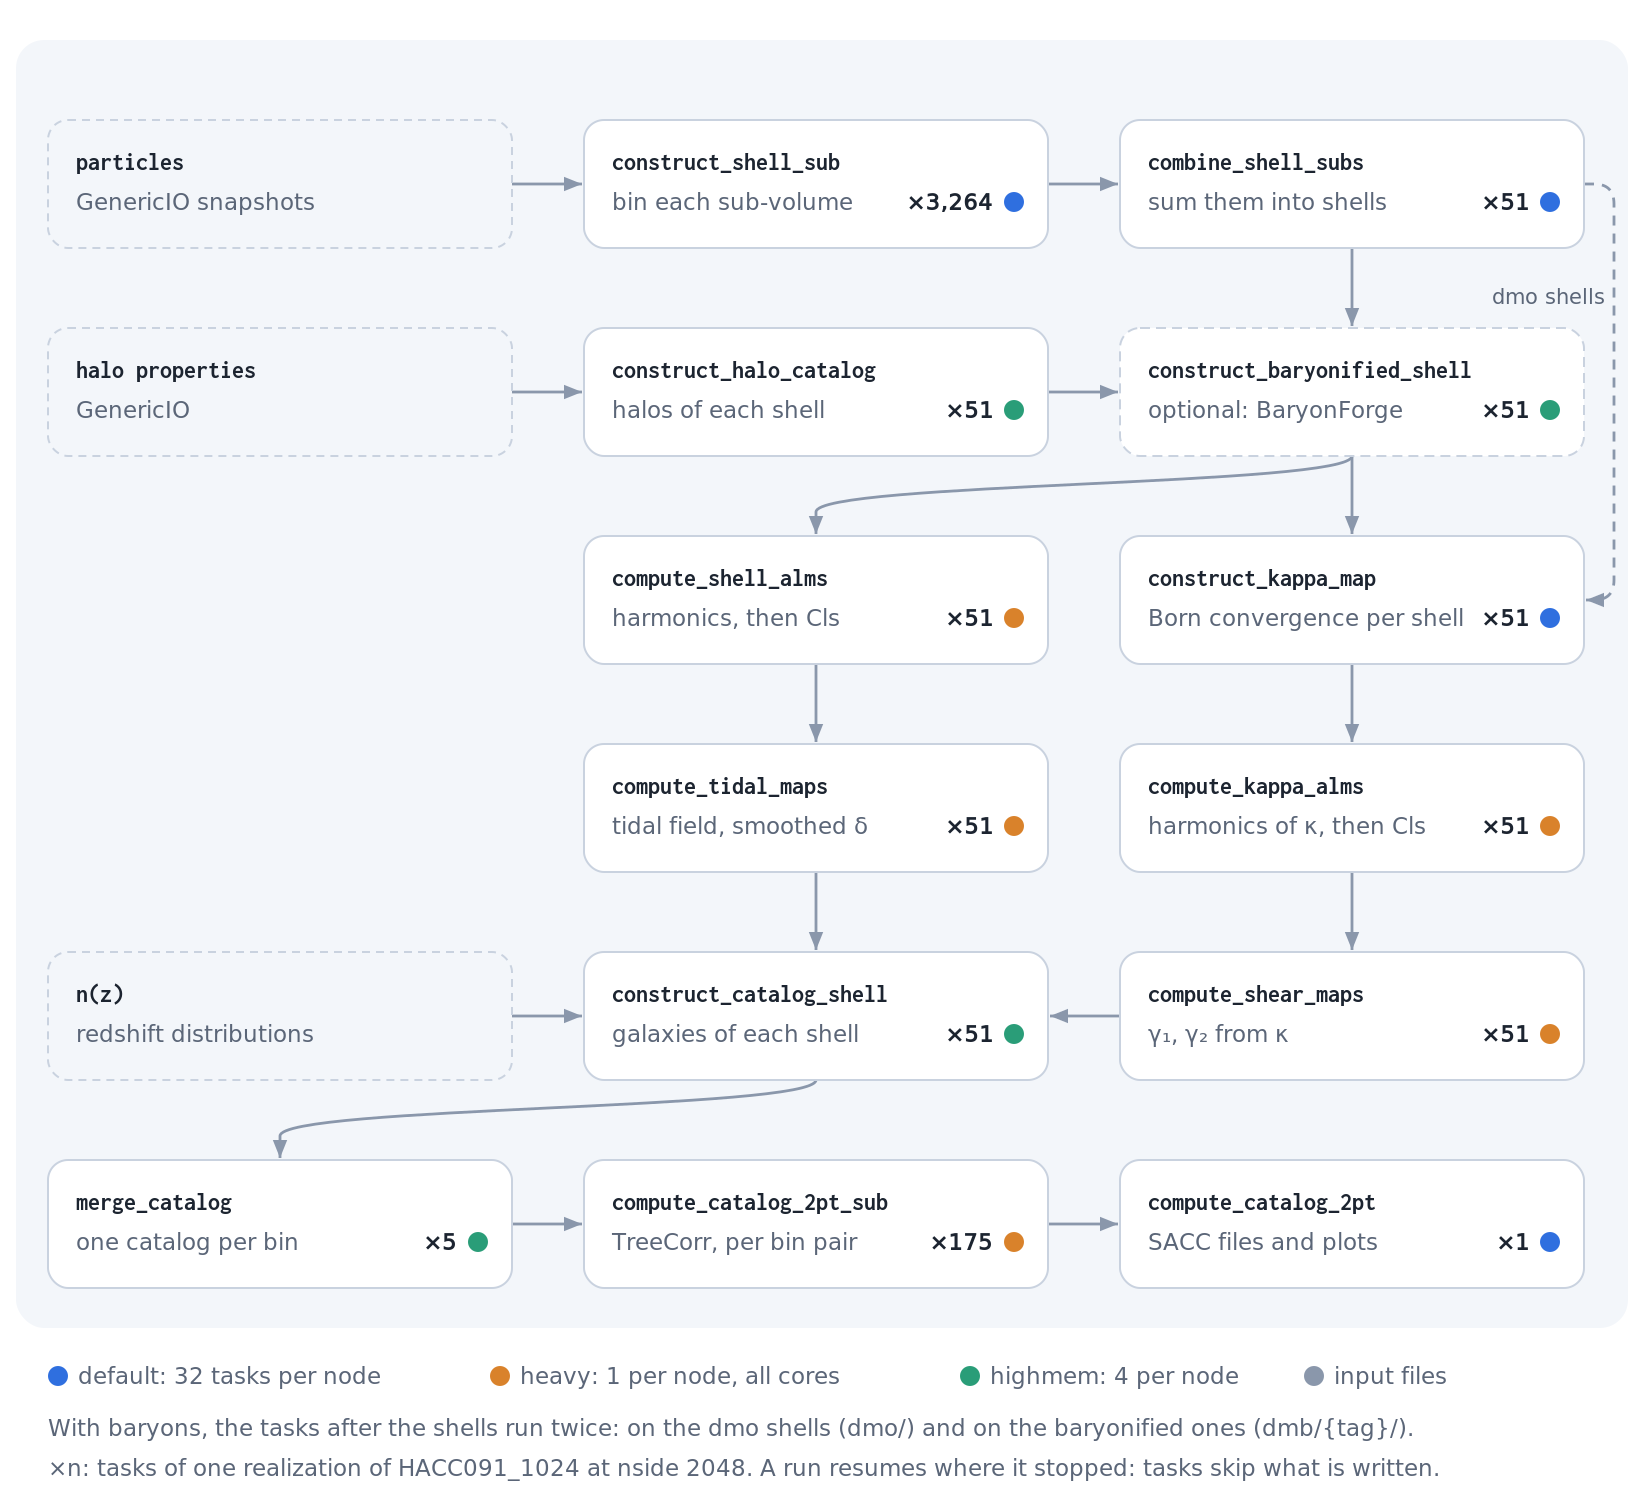
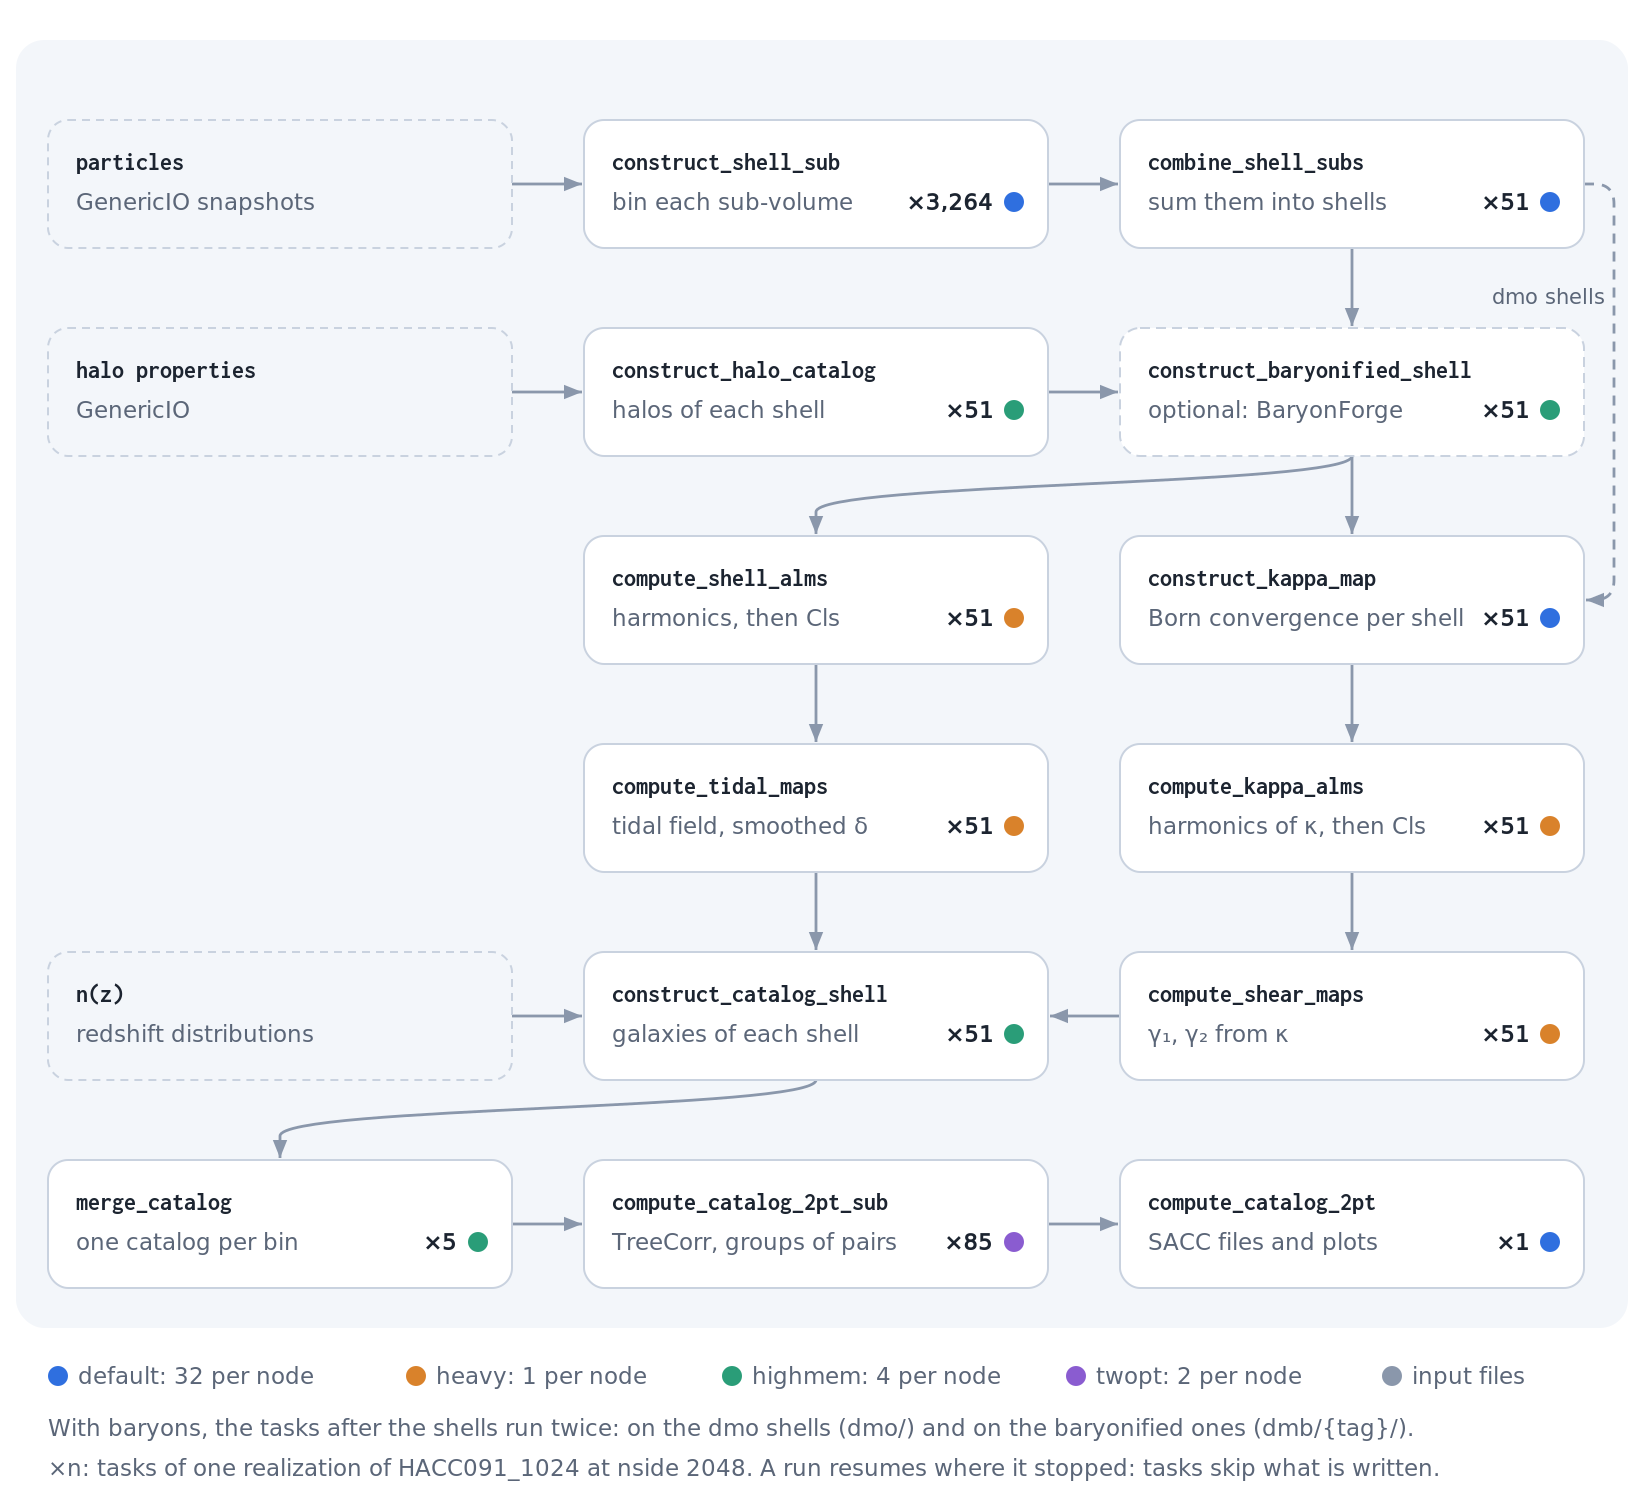
Non-Limber option for the spectra of density tracers; workflow figure with the twopt executor
Theory.angular_cl, binned_cl and predict_cls (and the map statistics' predict_cls) take
non_limber=False: for two unsmoothed density tracers, e.g. matter shells, it adds the exact
minus Limber spectrum, with the power spectrum at the kernels' effective redshift, computed
up to ell = 1000 in threads and falling as 1/ell^2 beyond. For the shells of a lightcone,
Limber overestimates the spectra by 10-25% at ell ~ 30-100 and a few percent at ell ~ 200.
Off by default: about a minute per pair.

The workflow figure shows the catalog 2pt tasks as groups of pairs on the twopt executor.

diff --git a/pollux/cosmo.py b/pollux/cosmo.py
@@ -406,9 +406,13 @@ class Theory:
     # smoothing scales (Mpc) considered by lognormal_smoothing: round values, for file names
     SMOOTHING_SCALES = (0.1, 0.12, 0.15, 0.2, 0.25, 0.3, 0.4, 0.5, 0.6, 0.8, 1., 1.2, 1.5, 2., 2.5, 3., 4., 5., 6., 8., 10., 12., 15., 20., 25., 30., 40., 50.)
 
+    # non-Limber correction (see :meth:`_non_limber_correction`): computed up to this multipole, falling as 1 / ell^2 beyond
+    NON_LIMBER_LMAX = 1000
+
     def __init__(self, cosmo: pyccl.Cosmology, p_of_k_a: pyccl.Pk2D | None = None) -> None:
         self.cosmo = cosmo
         self.p_of_k_a = p_of_k_a
+        self._non_limber = {}  # non-Limber corrections of pairs of density tracers, keyed by their names
         self._smoothed_pk = {}  # power spectra with a Gaussian smoothing, keyed by the spectrum and the tracers' smoothing
         self._pt_calculator = None
         self._pt_correction_pk = {}  # corrections of perturbation theory to NLA, keyed by the tracers' amplitudes
@@ -416,7 +420,7 @@ class Theory:
     # ==================================================================================================================
     # region Power spectra
 
-    def angular_cl(self, t1: Tracer | TracerSum, t2: Tracer | TracerSum, ell: np.ndarray, *, bb: bool = False) -> np.ndarray:
+    def angular_cl(self, t1: Tracer | TracerSum, t2: Tracer | TracerSum, ell: np.ndarray, *, bb: bool = False, non_limber: bool = False) -> np.ndarray:
         """Return the angular power spectrum of two tracers.
 
         Parameters
@@ -428,6 +432,10 @@ class Theory:
         bb : bool, optional
             Return the B-mode spectrum instead: only intrinsic alignments beyond NLA (two ``'ia'``
             tracers, one with ``a2`` or ``a1delta``) have B modes, zero otherwise. Default is False.
+        non_limber : bool, optional
+            Add the non-Limber correction of two unsmoothed ``'density'`` tracers
+            (:meth:`_non_limber_correction`), significant for thin shells below ell ~ 1000 but slow
+            (minutes per pair). Other pairs stay in the Limber approximation. Default is False.
 
         Returns
         -------
@@ -447,7 +455,7 @@ class Theory:
         if isinstance(t1, TracerSum) or isinstance(t2, TracerSum):
             terms1 = t1.tracers if isinstance(t1, TracerSum) else (t1,)
             terms2 = t2.tracers if isinstance(t2, TracerSum) else (t2,)
-            return sum(self.angular_cl(a, b, ell, bb=bb) for a in terms1 for b in terms2)
+            return sum(self.angular_cl(a, b, ell, bb=bb, non_limber=non_limber) for a in terms1 for b in terms2)
 
         # smoothing of the tracers, independent of their order (key of the smoothed spectra)
         smoothing = tuple(sorted(((t.smooth_Mpc, t.smooth_nside or 0) for t in (t1, t2) if t.smooth_Mpc), key=repr))
@@ -470,6 +478,8 @@ class Theory:
             pk = self._pk_pt_correction(t1, t2, smoothing)
             kernel2 = t2._ccl_pt_kernel(self.cosmo) if t2.kind == 'ia' else t2.ccl(self.cosmo)
             cl = cl + self._limber(t1._ccl_pt_kernel(self.cosmo), kernel2, ell, pk)
+        if non_limber and t1.kind == t2.kind == 'density' and not smoothing:
+            cl = cl + self._non_limber_correction(t1, t2, ell)
         return cl
 
     def _pk_pt_correction(self, t1: Tracer, t2: Tracer, smoothing: tuple, *, bb: bool = False) -> pyccl.Pk2D:
@@ -592,12 +602,130 @@ class Theory:
             # e.g. kernels or spectra too sharp for the default (QAG) integration
             return pyccl.angular_cl(self.cosmo, kernel1, kernel2, ell, p_of_k_a=pk, limber_integration_method='spline')
 
+    def _non_limber_correction(self, t1: Tracer, t2: Tracer, ell: np.ndarray) -> np.ndarray:
+        r"""Return the non-Limber correction of the angular power spectrum of two ``'density'`` tracers (cached by their names).
+
+        The difference between the exact spectrum and its Limber approximation, both with the matter power
+        spectrum of the predictions at one effective redshift (the mean of the kernels), which suits narrow kernels
+        (e.g. shells of matter):
+
+        .. math::
+
+            \Delta C_\ell = \frac{2}{\pi} \int dk\, k^2 P(k) I_1(k) I_2(k)
+            - \int d\chi \frac{W_1 W_2}{\chi^2} P\left(\frac{\ell + 1/2}{\chi}\right),
+            \qquad I_i(k) = \int d\chi\, W_i(\chi)\, j_\ell(k \chi),
+
+        with the radial kernels :math:`W_i` of the CCL tracers. It is computed at about 70 multipoles up to
+        :attr:`NON_LIMBER_LMAX`, in parallel threads, and interpolated; beyond, the relative correction falls as
+        :math:`1 / \ell^2`. Zero below ell = 2.
+
+        Parameters
+        ----------
+        t1, t2 : Tracer
+            ``'density'`` tracers.
+        ell : array_like
+            Multipoles.
+
+        Returns
+        -------
+        ndarray
+            Correction, to add to the Limber C_ell of :meth:`angular_cl`.
+        """
+        key = tuple(sorted((t1.name, t2.name)))
+        if key not in self._non_limber:
+            self._non_limber[key] = self._non_limber_table(t1, t2)
+        ells, delta, limber_lmax = self._non_limber[key]
+        ell = np.asarray(ell, dtype=float)
+        out = np.interp(ell, ells, delta, left=0., right=0.)
+        hi = ell > ells[-1]
+        if np.any(hi):
+            # relative correction falling as 1 / ell^2, on the Limber spectrum at the effective redshift (computed at
+            # 50 multipoles and interpolated in log)
+            grid = np.geomspace(ells[-1], ell[hi].max(), 50)
+            shape = np.exp(np.interp(np.log(ell[hi]), np.log(grid), np.log(np.abs(limber_lmax(grid)) + 1e-300)))
+            out[hi] = delta[-1] * shape / abs(limber_lmax(ells[-1:])[0]) * (ells[-1] / ell[hi])**2
+        return out
+
+    def _non_limber_table(self, t1: Tracer, t2: Tracer) -> tuple:
+        """Return the non-Limber correction of two ``'density'`` tracers at the multipoles where it is computed.
+
+        The radial kernels are those of the CCL tracers, on 4001 comoving distances over the redshift range of each
+        tracer; the power spectrum is that of the predictions at the scale factor of their mean comoving distance
+        (weighted by the kernels). The exact spectrum integrates over k up to ``3 (ell + 1/2) / chi_min`` (plus the
+        inverse width of the kernels), with 12 points per oscillation of the Bessel functions in k and in comoving
+        distance. The multipoles (2 to 29, then 40 up to :attr:`NON_LIMBER_LMAX`) are computed in parallel threads.
+
+        Parameters
+        ----------
+        t1, t2 : Tracer
+            ``'density'`` tracers.
+
+        Returns
+        -------
+        ells : ndarray
+            Multipoles where the correction is computed.
+        delta : ndarray
+            Exact minus Limber C_ell at ``ells``.
+        limber : callable
+            Limber C_ell at the effective redshift, as a function of the multipoles, to extrapolate the correction
+            beyond ``ells`` (see :meth:`_non_limber_correction`).
+        """
+        import os
+        from concurrent.futures import ThreadPoolExecutor
+        from scipy.special import spherical_jn
+        cosmo = self.cosmo
+        kernels = []
+        for t in (t1, t2):
+            chi_e = pyccl.comoving_radial_distance(cosmo, 1. / (1. + np.array([t.z.min(), t.z.max()])))
+            chi = np.linspace(chi_e[0], chi_e[1], 4001)
+            kernels.append((chi, np.asarray(t.ccl(cosmo).get_kernel(chi)).sum(axis=0)))
+        w = np.concatenate([k[1] for k in kernels])
+        chi_eff = np.sum(np.concatenate([k[0] for k in kernels]) * w) / np.sum(w)
+        a_eff = float(pyccl.scale_factor_of_chi(cosmo, chi_eff))
+        pk = self.p_of_k_a if self.p_of_k_a is not None else cosmo.get_nonlin_power()
+
+        def power(k):
+            return pk(np.atleast_1d(k), a_eff, cosmo)
+
+        def limber(ell):
+            # Limber spectrum at the effective redshift, on the overlap of the kernels
+            chi = kernels[0][0]
+            w2 = np.interp(chi, kernels[1][0], kernels[1][1], left=0., right=0.)
+            return np.array([trapezoid(kernels[0][1] * w2 / chi**2 * power((l + 0.5) / chi), chi) for l in np.atleast_1d(ell)])
+
+        chi_min = min(k[0][0] for k in kernels)
+        chi_max = max(k[0][-1] for k in kernels)
+        width = min(k[0][-1] - k[0][0] for k in kernels)
+
+        def exact(ell):
+            # k up to 3 (ell + 1/2) / chi_min (and the width of the kernels), 12 points per oscillation in k and in chi
+            kmax = 3. * (ell + 0.5) / chi_min + 50. / width
+            k = np.arange(0.2 * (ell + 0.5) / chi_max, kmax, 2. * np.pi / chi_max / 12.)
+            integrals = []
+            for chi, kern in kernels:
+                c = np.linspace(chi[0], chi[-1], int(12 * (chi[-1] - chi[0]) * kmax / (2. * np.pi)) + 64)
+                wc = np.interp(c, chi, kern)
+                integrals.append(np.concatenate([trapezoid(wc * spherical_jn(ell, np.outer(k[s:s + 2000], c)), c, axis=1) for s in range(0, k.size, 2000)]))
+            return 2. / np.pi * trapezoid(k**2 * power(k) * integrals[0] * integrals[1], k) - limber(ell)[0]
+
+        ells = np.unique(np.concatenate([np.arange(2, 30), np.round(np.geomspace(30, self.NON_LIMBER_LMAX, 40))]).astype(int))
+        with ThreadPoolExecutor(os.cpu_count()) as pool:  # scipy's Bessel functions release the GIL
+            delta = np.array(list(pool.map(exact, ells[::-1])))[::-1]  # longest first
+        return ells.astype(float), delta, limber
+
     # endregion
 
     # ==================================================================================================================
     # region Bandpowers
 
-    def binned_cl(self, t1: Tracer, t2: Tracer, b: pymaster.NmtBin, bpws: np.ndarray | None = None, f_ell: np.ndarray | None = None) -> np.ndarray:
+    def binned_cl(
+            self,
+            t1: Tracer,
+            t2: Tracer,
+            b: pymaster.NmtBin,
+            bpws: np.ndarray | None = None,
+            f_ell: np.ndarray | None = None,
+            non_limber: bool = False) -> np.ndarray:
         """Return the angular power spectrum of two tracers, binned into bandpowers.
 
         Parameters
@@ -614,6 +742,8 @@ class Theory:
             None, C_ell (E mode) are averaged over each bandpower.
         f_ell : ndarray or None, optional
             Window applied to the fields (e.g. the pixel window), multiplying C_ell by ``f_ell**2``.
+        non_limber : bool, optional
+            Non-Limber correction of density pairs (see :meth:`angular_cl`). Default is False.
 
         Returns
         -------
@@ -623,7 +753,7 @@ class Theory:
         """
         ell = np.arange(b.lmax + 1)
         window = 1. if f_ell is None else f_ell**2
-        cl = self.angular_cl(t1, t2, ell) * window
+        cl = self.angular_cl(t1, t2, ell, non_limber=non_limber) * window
         if bpws is None:
             return b.bin_cell(cl[None, :])
         # E (or scalar) input in the first component of the windows
@@ -648,6 +778,7 @@ class Theory:
             fsky: float = 1.,
             cross_covariance: bool = True,
             all_components: bool = False,
+            non_limber: bool = False,
             progress: Callable | None = None) -> tuple:
         """Predict angular power spectra of tracer pairs, with optional Gaussian errors and covariance.
 
@@ -691,6 +822,8 @@ class Theory:
             With ``binning='wsp'``, return all components of the bandpower windows (shape
             ``(n_cl, n_bands)``, e.g. EE, EB, BE, BB) instead of the first one.
             Errors and stacking use the first component.
+        non_limber : bool, optional
+            Non-Limber correction of density pairs (see :meth:`angular_cl`): slow, for thin shells. Default is False.
         progress : callable or None, optional
             Wrapper for the loop over pairs (e.g. a tqdm function).
 
@@ -732,9 +865,9 @@ class Theory:
         def predict(t1: Tracer, t2: Tracer, w: np.ndarray | None = None) -> np.ndarray:
             # C_ell of two tracers, unbinned or binned
             if unbinned:
-                cl = self.angular_cl(t1, t2, ell)
+                cl = self.angular_cl(t1, t2, ell, non_limber=non_limber)
                 return cl if f_ell is None else cl * np.interp(ell, np.arange(len(f_ell)), f_ell)**2
-            return self.binned_cl(t1, t2, b, bpws=w, f_ell=f_ell)
+            return self.binned_cl(t1, t2, b, bpws=w, f_ell=f_ell, non_limber=non_limber)
 
         # spectra of the pairs (all components with bandpower windows if all_components), keeping the first one per tracer pair
         cl = {}

diff --git a/docs/figures/make_figures.py b/docs/figures/make_figures.py
@@ -177,7 +177,7 @@ def to_plane(ra, dec, ra0, dec0):
 
 WORKFLOW_STYLE = """
 .pollux-workflow { --wf-bg: #ffffff; --wf-card: #ffffff; --wf-line: #c9d2df; --wf-edge: #8a97ab; --wf-ink: #1c2430; --wf-muted: #5b6678;
-  --wf-band: #f3f6fa; --wf-default: #2f6fdf; --wf-heavy: #d9822b; --wf-highmem: #2a9d78; --wf-input: #8a97ab;
+  --wf-band: #f3f6fa; --wf-default: #2f6fdf; --wf-heavy: #d9822b; --wf-highmem: #2a9d78; --wf-twopt: #8a5cd0; --wf-input: #8a97ab;
   font-family: Inter, "Helvetica Neue", Arial, sans-serif; }
 .pollux-workflow .bg { fill: var(--wf-bg); }
 .pollux-workflow .band { fill: var(--wf-band); }
@@ -197,6 +197,7 @@ WORKFLOW_STYLE = """
 .pollux-workflow .dot-default { fill: var(--wf-default); }
 .pollux-workflow .dot-heavy { fill: var(--wf-heavy); }
 .pollux-workflow .dot-highmem { fill: var(--wf-highmem); }
+.pollux-workflow .dot-twopt { fill: var(--wf-twopt); }
 .pollux-workflow .dot-input { fill: var(--wf-input); }
 .pollux-workflow .arrowhead { fill: var(--wf-edge); }
 """
@@ -242,7 +243,7 @@ def workflow():
         'cat': ('E', 1, 'construct_catalog_shell', 'galaxies of each shell', '51', 'highmem'),
         'shear': ('E', 2, 'compute_shear_maps', 'γ₁, γ₂ from κ', '51', 'heavy'),
         'merge': ('F', 0, 'merge_catalog', 'one catalog per bin', '5', 'highmem'),
-        'pairs': ('F', 1, 'compute_catalog_2pt_sub', 'TreeCorr, per bin pair', '175', 'heavy'),
+        'pairs': ('F', 1, 'compute_catalog_2pt_sub', 'TreeCorr, groups of pairs', '85', 'twopt'),
         '2pt': ('F', 2, 'compute_catalog_2pt', 'SACC files and plots', '1', 'default'),
     }
     edges = [('particles', 'sub'), ('sub', 'combine'), ('combine', 'bary'), ('halos', 'halocat'), ('halocat', 'bary'), ('bary', 'shell_alms'), ('bary', 'kappa'),
@@ -291,8 +292,8 @@ def workflow():
     # legend and notes, under the band
     ly = row['F'] + H + 48
     x = PAD
-    for kind, label in (('default', 'default: 32 tasks per node'), ('heavy', 'heavy: 1 per node, all cores'), ('highmem', 'highmem: 4 per node'),
-                        ('input', 'input files')):
+    for kind, label in (('default', 'default: 32 per node'), ('heavy', 'heavy: 1 per node'), ('highmem', 'highmem: 4 per node'),
+                        ('twopt', 'twopt: 2 per node'), ('input', 'input files')):
         out.append(f'<circle class="dot-{kind}" cx="{x + 5}" cy="{ly - 4}" r="5"/>')
         out.append(f'<text class="legend" x="{x + 15}" y="{ly}">{label}</text>')
         x += 15 + 7.0 * len(label) + 24

diff --git a/pollux/statistics/maps.py b/pollux/statistics/maps.py
@@ -300,7 +300,8 @@ class MapStatistics(TwoPointStatistics):
             binning: str = 'wsp',
             error_bars: bool = False,
             stacked: bool = False,
-            ell: np.ndarray | None = None) -> tuple:
+            ell: np.ndarray | None = None,
+            non_limber: bool = False) -> tuple:
         """Predict theory angular power spectra using CCL.
 
         Parameters
@@ -324,6 +325,10 @@ class MapStatistics(TwoPointStatistics):
         ell : ndarray or None, optional
             Multipoles at which to evaluate CCL when ``binning='unbinned'``.
             If None, uses the effective bandpower ells from the binning scheme.
+        non_limber : bool, optional
+            Correct the Limber approximation of the spectra of density maps, e.g. shells, which are thin
+            (:meth:`pollux.cosmo.Theory.angular_cl`): 10-25% at ell ~ 30-100 and a few percent at ell ~ 200 for the
+            shells of a lightcone, but minutes per pair. Default is False.
 
         Returns
         -------
@@ -373,6 +378,7 @@ class MapStatistics(TwoPointStatistics):
                                       stacked=stacked,
                                       fsky=self.footprint.fsky,
                                       cross_covariance=not auto_only,
+                                      non_limber=non_limber,
                                       progress=self.tqdm)
         return res
 

diff --git a/docs/changelog.rst b/docs/changelog.rst
@@ -26,6 +26,10 @@ Production of the HACC-HOS-Y1 lightcones (`PR #34 <https://github.com/LSSTDESC/p
   of each code and configuration before a run, and a guard stopping runs whose tasks take too long or keep failing.
 - :class:`~pollux.reader.SyntheticReader` (particles drawn in a box, for tests) replaces ``MockReader`` and
   ``DummyReader``; first tests in ``tests/`` (pytest).
+- Catalog 2pt functions by groups of bin pairs sharing their randoms (:func:`~pollux.pipeline.tasks.pair_groups_2pt`),
+  on a ``twopt`` executor, two tasks per node; thread caps of the ``highmem`` workers.
+- Non-Limber correction of the spectra of density tracers, e.g. thin shells (``non_limber=True`` in ``predict_cls``,
+  off by default: about a minute per pair).
 
 Version 0.1
 -----------
